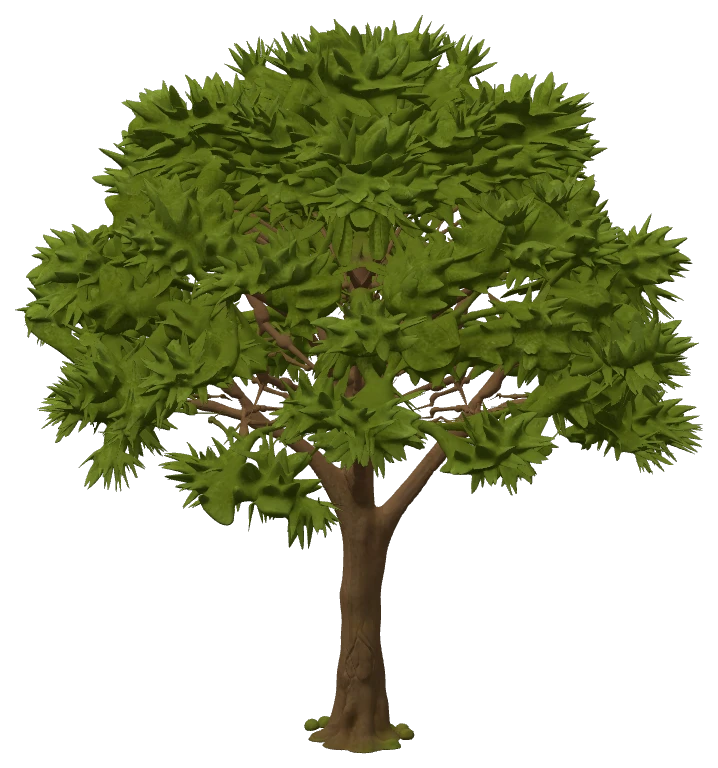
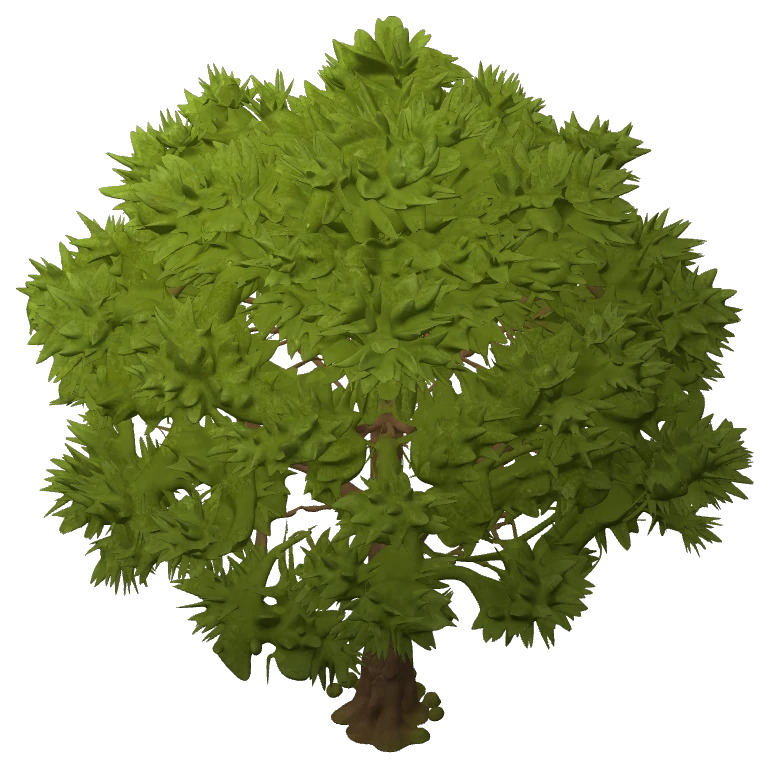
D103: trees back on the ground, mostly from above with a bit of trunk
- baked from 48 deg (the D99 crown volume + olive foliage), standing on the base, their own cast shadow

diff --git a/src/data/propModels.js b/src/data/propModels.js
@@ -73,14 +73,9 @@ export const PROP_MODELS = {
   // D99 (user): the user's second, detailed tree (60 MB, 2 M triangles) — its picture baked OFFLINE from the model
   // (tools/bake-impostor.html: 785 × 768 webp, 79 KB) — the game never loads the model
   tree: { view: 'deciduous_tree', top: 1, atlas: 'training', drawW: 120, drawD: 120, sprite: { lean: 1 },
-    // D100 (user: the trees looked like huge bushes): baked from 62° off the vertical (tools/bake-impostor.html tilt=62)
-    // — the trunk and the height show; drawn 170 high
-    // D101 (user: tilt it more, put it on the ground, foliage in the place's tone): baked from 74°, the foliage graded to
-    // the olive grass (the trunk keeps its brown); no cast shadow from the lifted picture (it fell away from the trunk —
-    // the tree seemed to float): a soft ground shadow from the trunk instead (`groundShadow`: radius, offset — parts of
-    // the height, along the level sun's shadow direction)
-    model: { file: 'tree_big', height: 175, lift: 75, castShadow: false, groundShadow: { r: 0.36, off: 0.22, alpha: 0.5 },
-      baked: { file: 'tree_big.webp', frame: [-0.4816, 0.4816, -0.0391, 0.9916] } } },
+    // D103 (user: back on the ground, much less tilt — mostly from above, a bit of trunk, volume as the first one): baked
+    // from 48° (the D99 volume look + the olive foliage), standing on its base (no lift), its own cast shadow
+    model: { file: 'tree_big', height: 150, baked: { file: 'tree_big.webp', frame: [-0.4816, 0.4816, -0.0666, 0.8943] } } },
   boulder: { view: 'boulder', top: 1, atlas: 'training' },
   bush: { view: 'leafy_bush', top: 0.9, atlas: 'training', sprite: { lean: 1 } },
   grass_tuft: { view: 'grass_tuft', top: 0.8, atlas: 'training', sprite: { lean: 1 } },

diff --git a/src/config/constants.js b/src/config/constants.js
@@ -12,7 +12,7 @@ export const DEBUG_MODELS = false; // D93 (user): the viewer is out of the main 
  */
 export const CHEATS = true;
 
-export const BUILD_VERSION = '0.22.3-killlist-training';
+export const BUILD_VERSION = '0.22.4-killlist-training';
 
 /** Prefix for every localStorage key of the game (H5 §9). KILL LIST (D78): its own prefix, a new profile schema. */
 export const STORAGE_PREFIX = 'kl.';
